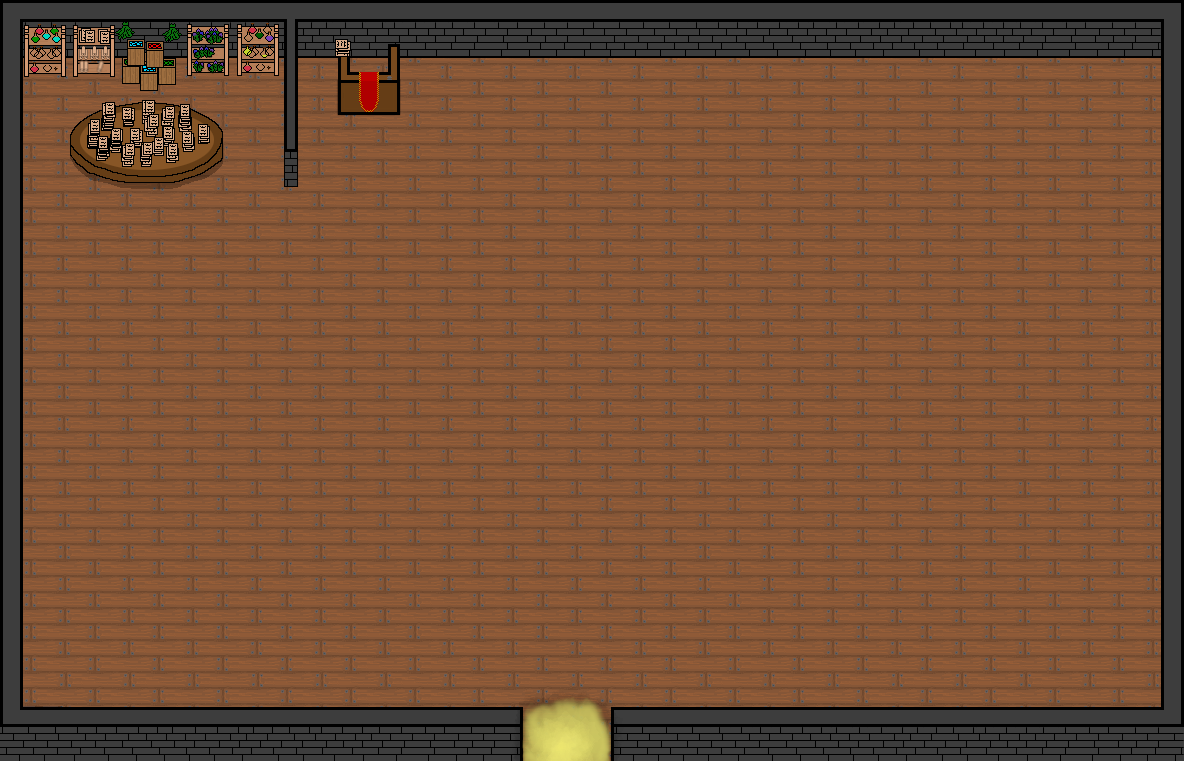
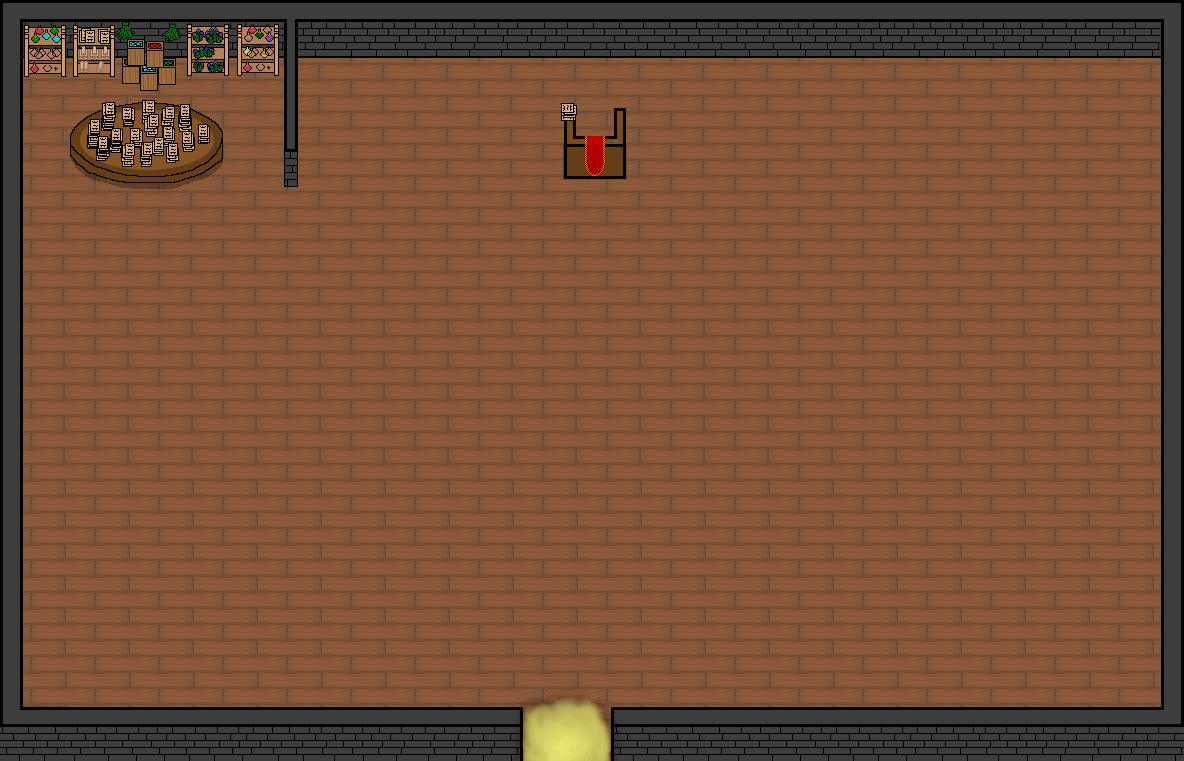
Update
+BUSCH

Changed region(s): [[0.4688, 0.1209, 0.5312, 0.2418], [0.2812, 0.0302, 0.3438, 0.1511]]

diff --git a/src/loot/LootTabels.java b/src/loot/LootTabels.java
@@ -14,15 +14,15 @@ public class LootTabels {
 	}
 	
 	public static LootTableTemplate createVillagerLoot(int rolls){
-		return new LootTableTemplate(rolls, new ItemTemplate[] {CreateItem.createFood(1) ,CreateItem.createFood(1) ,CreateItem.createFood(1) ,CreateItem.createFood(1) ,CreateItem.createFood(1) ,CreateItem.createEmpty(0)});
+		return new LootTableTemplate(rolls, new ItemTemplate[] {CreateItem.createFood(1) ,CreateItem.createFood(1) ,CreateItem.createFood(1) ,CreateItem.createFood(1) ,CreateItem.createFood(1) ,CreateItem.createEmpty(3)});
 	}
 	
 	public static LootTableTemplate createHerbs(int rolls){
-		return new LootTableTemplate(rolls, new ItemTemplate[] {CreateItem.createHerbs(1) ,CreateItem.createHerbs(1) ,CreateItem.createHerbs(1) ,CreateItem.createHerbs(1) ,CreateItem.createHerbs(1) ,CreateItem.createEmpty(0)});
+		return new LootTableTemplate(rolls, new ItemTemplate[] {CreateItem.createHerbs(1) ,CreateItem.createHerbs(1) ,CreateItem.createHerbs(1) ,CreateItem.createHerbs(1) ,CreateItem.createHerbs(1) ,CreateItem.createEmpty(3)});
 	}
 	
 	public static LootTableTemplate createValuebles(int rolls){
-		return new LootTableTemplate(rolls, new ItemTemplate[] {CreateItem.createValuebles(1) ,CreateItem.createValuebles(1) ,CreateItem.createValuebles(1) ,CreateItem.createValuebles(1) ,CreateItem.createValuebles(1) ,CreateItem.createEmpty(0)});
+		return new LootTableTemplate(rolls, new ItemTemplate[] {CreateItem.createValuebles(1) ,CreateItem.createValuebles(1) ,CreateItem.createValuebles(1) ,CreateItem.createValuebles(1) ,CreateItem.createValuebles(1) ,CreateItem.createEmpty(3)});
 	}
 
 }

diff --git a/src/game/CreateObjects.java b/src/game/CreateObjects.java
@@ -7,6 +7,7 @@ import entitys.MobTemplate;
 import entitys.Player;
 import entitys.TestMob;
 import entitys.village.Swordmen;
+import functionalObjects.Bush;
 import functionalObjects.Chest;
 import functionalObjects.FunctionalTemplate;
 import gameObject.CollisionRechteck;
@@ -88,8 +89,13 @@ public class CreateObjects {		//Allgemeine Methoden zum erstellen verschiedener 
 	public static FunctionalTemplate createPernamentChest(int posX, int posY, boolean isExisting) {	//feste Kiste immer da
 		return new Chest(posX, posY, isExisting, LootTabels.createChestCoinLoot(5));
 	}
+	
 	public static FunctionalTemplate createChestPoint(int posX, int posY, boolean isExisting, int spawnChance) {	//variable Kiste kann generieren muss aber nicht
 		return new Chest(posX, posY, isExisting, LootTabels.createChestCoinLoot(5), false, spawnChance);
+	}
+	
+	public static FunctionalTemplate createBushPoint(int posX, int posY, boolean isExisting, int spawnChance) {	//variabler Busch kann generieren muss aber nicht
+		return new Bush(posX, posY, isExisting, spawnChance, LootTabels.createHerbs(5));
 	}
 	public static MobTemplate createSwordmen(int hoehe,int breite, float speed, int SpawnX, int SpawnY, int damage, int Hp, LootTableTemplate loot) {
 		MobTemplate template = new Swordmen(hoehe, breite, SpawnX, SpawnY, 0, 0, speed, SpawnX, SpawnY, damage, Hp, loot);

diff --git a/src/functionalObjects/Bush.java b/src/functionalObjects/Bush.java
@@ -1,0 +1,48 @@
+package functionalObjects;
+
+import java.awt.image.BufferedImage;
+import java.io.IOException;
+
+import javax.imageio.ImageIO;
+
+import action.Logger;
+import loot.LootTableTemplate;
+import loot.SpawnLoot;
+import spells.SpellIcons;
+import translation.Translation;
+
+public class Bush extends FunctionalTemplate{
+	
+	private boolean permanent;
+
+	public Bush(int posX, int posY, boolean isExisting, int spawnChance, LootTableTemplate loot) {
+		super(75, 75, posX, posY, 50, Translation.get("interaction.grabBush"), getImage(), true, isExisting);
+		this.lootTableTemplate = loot;
+		this.name="Bush";
+		if(!permanent) {
+			int random = (int) (Math.random()*100);
+			if(random>spawnChance) {
+				this.isExisting = false;
+			}else {
+				this.isExisting = true;
+			}
+		}
+	}
+	
+	
+	private static BufferedImage getImage() {
+		try {
+			return ImageIO.read(SpellIcons.class.getResource("/resources/objects/Bush.png"));
+		} catch (IOException e) {
+			Logger.logError("Chest Image Error: ", e);
+		}
+		return null;
+	}
+	
+	@Override
+	public void performAction() {
+		super.performAction();
+		SpawnLoot.around(posX, posY, 50, lootTableTemplate);		
+	}
+	
+}

diff --git a/src/rooms/RoomTemplate.java b/src/rooms/RoomTemplate.java
@@ -30,7 +30,9 @@ public class RoomTemplate implements Cloneable{
 	@Override
 	protected RoomTemplate clone() {
 		try {
-            return (RoomTemplate) super.clone();
+            RoomTemplate roomTemplate =(RoomTemplate) super.clone();
+            roomTemplate.createFunctionable();
+            return roomTemplate;
         } catch (CloneNotSupportedException e) {
         	Logger.logError("Cloning from Room failed: ", e);
 //            throw new AssertionError("Cloning not supported", e);
@@ -38,7 +40,11 @@ public class RoomTemplate implements Cloneable{
 		return null;
 	}
 	
-	public void createObjects(int currentRoom) {}
+	public void createObjects(int currentRoom) {
+		for (int i = 0; i < functional.size(); i++) {
+			GameLogic.functionalObjects.add(functional.get(i));
+		}
+	}
 	
 	public void DrawImage(Graphics2D g) {}
 	
@@ -58,5 +64,5 @@ public class RoomTemplate implements Cloneable{
 	
 	public void update() {}
 	
-	protected void createFunctionable() {}
+	protected void createFunctionable() {functional.clear();}
 }

diff --git a/src/rooms/Village/Spawn.java b/src/rooms/Village/Spawn.java
@@ -1,5 +1,6 @@
 package rooms.Village;
 
+import action.Logger;
 import entitys.MobTemplate;
 import game.CreateObjects;
 import game.GameLogic;
@@ -61,11 +62,18 @@ public class Spawn extends RoomTemplate{
 //		Entitys[2].maxHitCooldown = 200;
 		
 		Entitys = new MobTemplate[1];	//maximale anzahl an gegnern die gespawnt werden
-		Entitys[0] = CreateObjects.createSwordmen(25, 25, 0.5F, 1035, 300, 1, 1, LootTabels.createVillagerLoot(100));
+		Entitys[0] = CreateObjects.createSwordmen(25, 25, 0.5F, 1035, 300, 1, 1, LootTabels.createVillagerLoot(5));
 		Entitys[0].maxHitCooldown = 200;
 		
 		super.createEntitys();
 		//killAllEntitys();
+	}
+	
+	@Override
+	protected void createFunctionable() {
+		Logger.logInfo("new Functionable");
+		super.createFunctionable();
+		functional.add(CreateObjects.createBushPoint(500, 400, true, 50));
 	}
 	
 	@Override

diff --git a/src/rooms/specialRoom/Guilde.java b/src/rooms/specialRoom/Guilde.java
@@ -35,14 +35,12 @@ public class Guilde extends RoomTemplate{
 		super.createObjects(currentRoom);
 		CreateObjects.createGildSwitchInteraction(550, 750);
 //		GameLogic.functionalObjects.add(CreateObjects.createPernamentChest(600, 400, true));
-		for (int i = 0; i < functional.size(); i++) {
-			GameLogic.functionalObjects.add(functional.get(i));
-		}
 		CreateObjects.createDialogInteraction(581, 103, Translation.get("interaction.testDialog") , 2, Translation.get("dialogs.gildenSender"));
 	}
 	
 	@Override
 	protected void createFunctionable() {
+		Logger.logInfo("new Functionable");
 		super.createFunctionable();
 		functional.add(CreateObjects.createChestPoint(600, 400, true, 100));
 	}

diff --git a/src/functionalObjects/FunctionalTemplate.java b/src/functionalObjects/FunctionalTemplate.java
@@ -5,8 +5,10 @@ import java.awt.image.BufferedImage;
 
 import action.Logger;
 import interactions.InteractableTemplate;
+import loot.LootTableTemplate;
 
 public class FunctionalTemplate extends InteractableTemplate{
+	public LootTableTemplate lootTableTemplate;
 	public BufferedImage image;
 	public boolean vanishAfterInteraction;
 	public boolean isExisting;
@@ -23,7 +25,7 @@ public class FunctionalTemplate extends InteractableTemplate{
 	public void performAction() {
 		super.performAction();
 		if(vanishAfterInteraction) {
-			Logger.logInfo(this +" sollte jetzt verschwinden");
+			isExisting = false;
 		}
 	}
 	

diff --git a/src/game/Collisions.java b/src/game/Collisions.java
@@ -274,7 +274,7 @@ public class Collisions {
 			float distanceSquared = dx * dx + dy * dy;
 			int rangeSquared = interactable.range * interactable.range;
 
-			if (distanceSquared <= rangeSquared) {
+			if (distanceSquared <= rangeSquared && interactable.isExisting) {
 				interactable.actionEnabled = true;
 				g.setColor(color);
 				g.drawString("[E] "+interactable.interactionString, interactable.posX, interactable.posY-10);

diff --git a/src/functionalObjects/Chest.java b/src/functionalObjects/Chest.java
@@ -12,9 +12,6 @@ import spells.SpellIcons;
 import translation.Translation;
 
 public class Chest extends FunctionalTemplate{
-	LootTableTemplate lootTableTemplate;
-	public boolean isPermanent;
-	
 
 	public Chest(int posX, int posY, boolean isExisting, LootTableTemplate lootTable) {
 		super(50, 75, posX, posY, 50, Translation.get("interaction.chestOpen"), getImage(), false, isExisting);

diff --git a/src/translation/Translation.java b/src/translation/Translation.java
@@ -106,7 +106,8 @@ public class Translation {
 		germanTranslationMap.put("interaction.chestOpen", "Kiste öffnen");
 		englishTranslationMap.put("interaction.chestOpen", "open Chest");
 		
-		
+		germanTranslationMap.put("interaction.grabBush", "Busch durchsuchen");
+		englishTranslationMap.put("interaction.grabBush", "search Bush");
 		
 		
 		//Items
